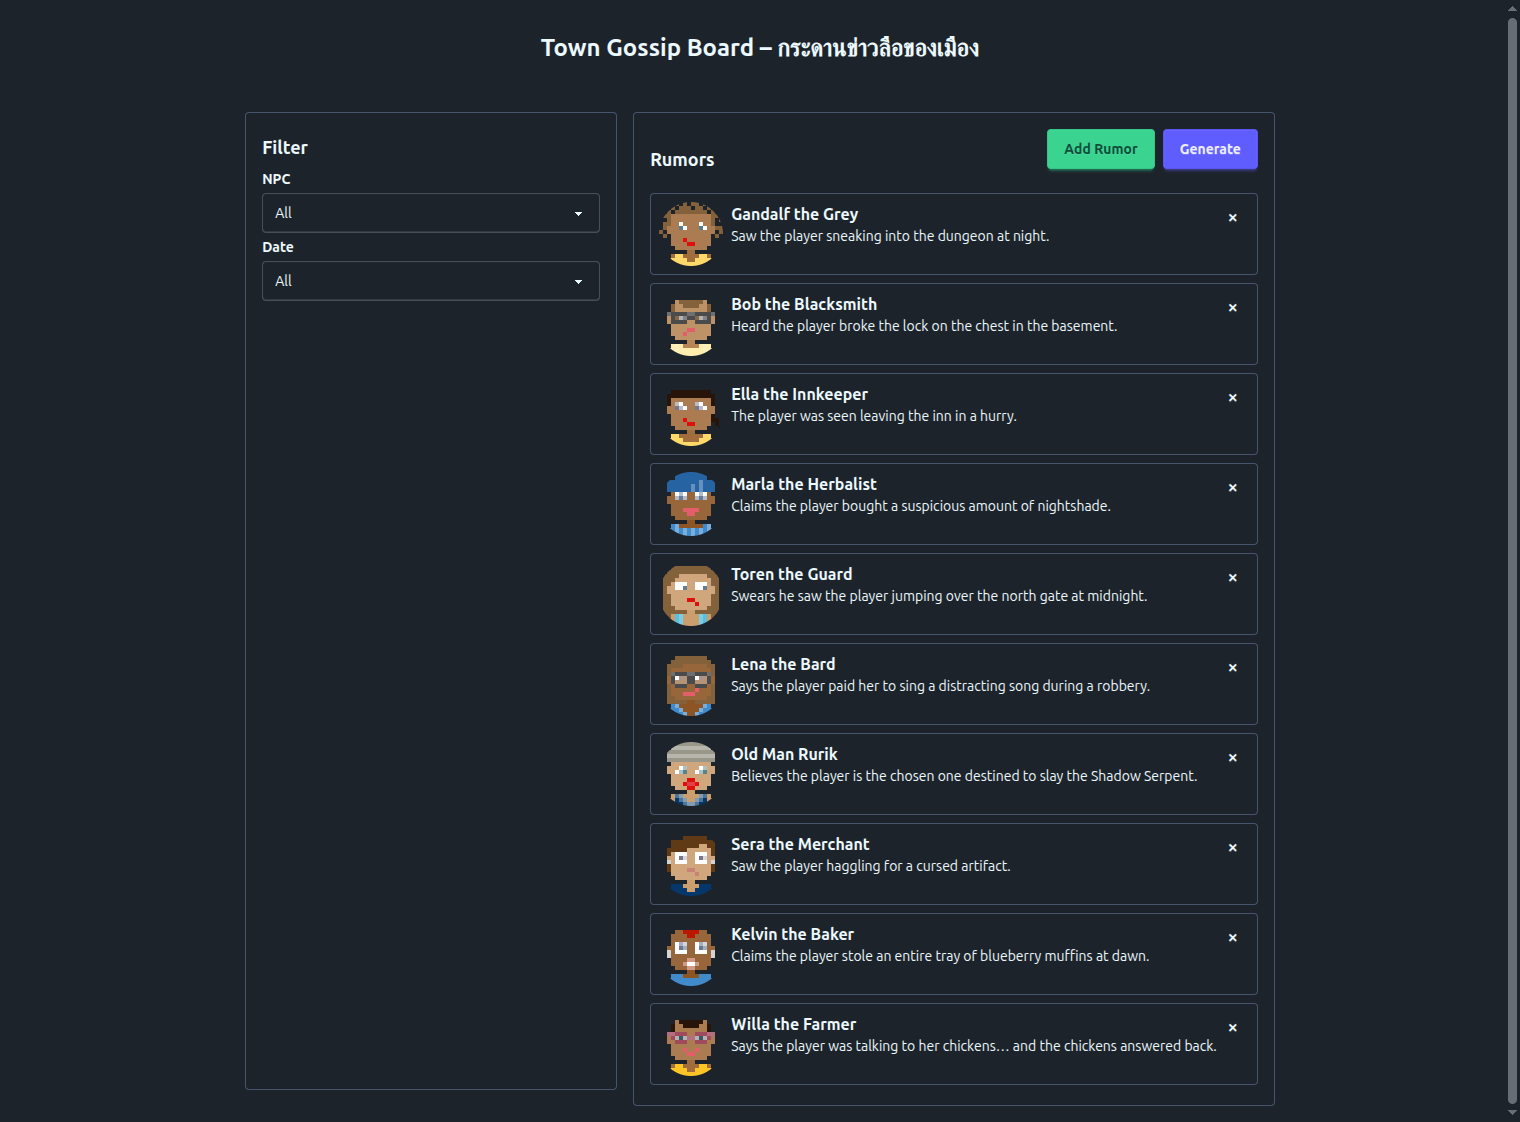
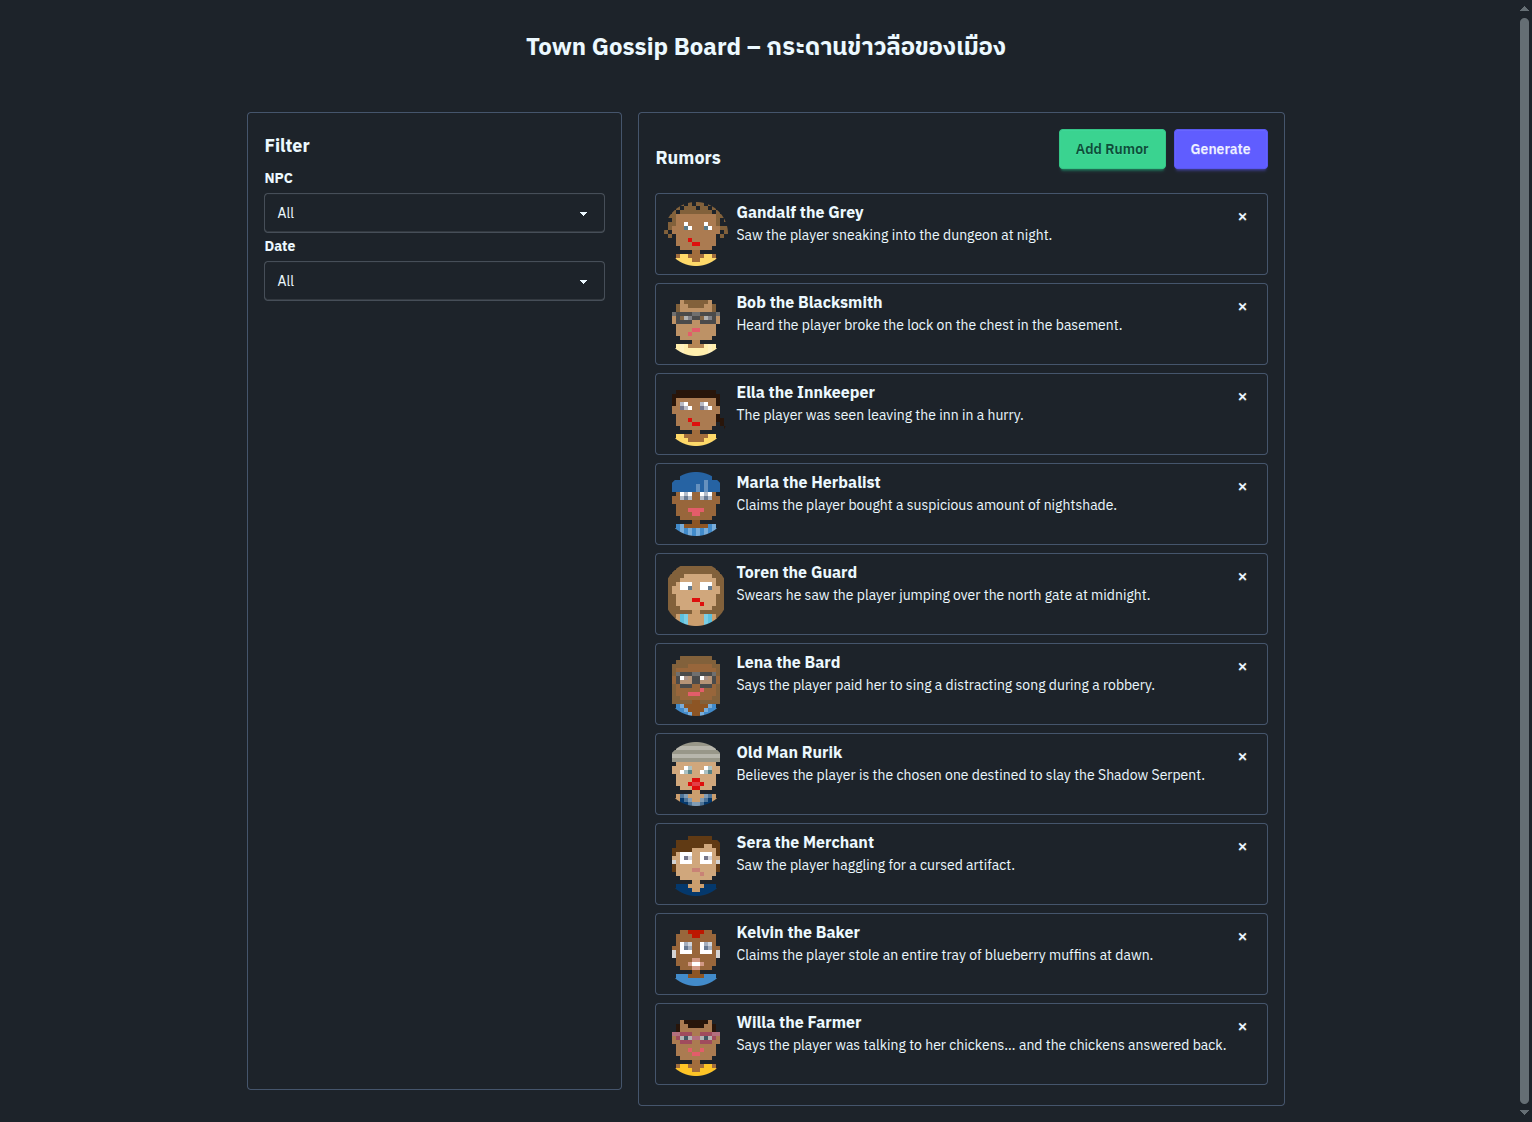
update README.md, image.png and src/index.css

diff --git a/src/index.css b/src/index.css
@@ -1,3 +1,7 @@
-@import 'tailwindcss';
+@import "tailwindcss";
 @config "../tailwind.config.ts";
 @plugin "daisyui";
+
+body {
+    font-family: 'IBM Plex Sans Thai', sans-serif;
+}

diff --git a/README.md b/README.md
@@ -1,12 +1,20 @@
 # Town Gossip Board By Ripple
 
-A minimal Ripple application template with TypeScript and Vite.
+A system where NPCs gather, post, and vote on rumors about players. Each rumor can be tagged to quests, tracked over time, and verified by other NPCs.
 
 <div align="center">
 
 ![alt text](image.png)
 
 </div>
+
+### **แนวคิดหลัก**
+
+- โลก RPG ส่วนใหญ่ผู้เล่นจะเห็น NPC เป็นแค่ quest giver หรือ merchant แต่ **ในมุมมอง NPC** ผู้เล่นคือตัวละครที่สร้างข่าวลือและเรื่องราวให้เมือง
+- NPC แต่ละตัวสามารถ **post, vote, comment, หรือ verify** ข่าวลือเกี่ยวกับผู้เล่น
+- ระบบนี้ไม่ใช่เกมจริง ๆ แต่เป็น **simulation/dashboard** ให้ลองเทส framework ทั้ง CRUD, real-time updates, และ user interaction
+
+---
 
 ## Getting Started
 
@@ -53,3 +61,38 @@ For the best development experience, install the [Prettier VS Code extension](ht
 
 - [Ripple Documentation](https://github.com/Ripple-TS/ripple)
 - [Vite Documentation](https://vitejs.dev/)
+
+## Idea
+
+### **UI คร่าว ๆ**
+
+1. **Timeline ของข่าวลือ**
+    - List ของข่าวลือเรียงตามเวลา (ใหม่ → เก่า)
+    - แต่ละข่าวประกอบด้วย:
+        - 🧙♂ **NPC ที่โพสต์**
+        - 📝 **ข้อความข่าวลือ** (เช่น “เห็นผู้เล่นลอบเข้า dungeon ตอนกลางคืน”)
+        - 🏷 **Tags/Quest associations** (เช่น “quest:DragonSlayer”)
+        - 👍👎 **Vote ว่าจริงหรือโกหก**
+        - ⏰ Timestamp
+
+2. **Sidebar / Filter**
+    - Filter ข่าวลือตาม:
+        - NPC ที่โพสต์
+        - Tag ของ quest
+        - ความจริง/โกหก (Vote)
+
+3. **โพสต์ข่าวลือใหม่ (สำหรับ NPC)**
+    - Text input
+    - Dropdown เลือก tag ของ quest
+    - Submit → ปรากฏบน timeline
+
+4. **Vote / Verify**
+    - NPC อื่น ๆ สามารถ vote ว่าจริงหรือโกหก
+    - Vote rate จะเปลี่ยนสี/ไอคอน:
+        - ✅ มากกว่า 50% vote จริง
+        - ❌ มากกว่า 50% vote โกหก
+        - ⚖ ยังไม่ชัดเจน
+
+5. **Optional: Interaction Graph**
+    - แสดงกราฟสรุปว่าผู้เล่นคนนี้มีข่าวลือกี่เรื่องเกี่ยวข้องกับ NPC ไหนบ้าง
+    - แสดงความเชื่อมโยง quest และ NPC
